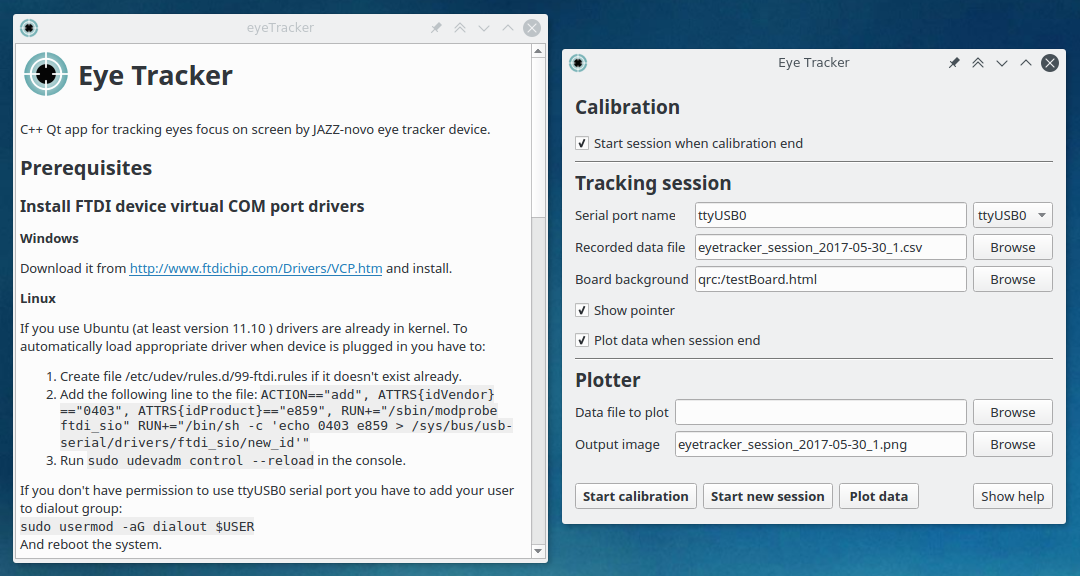
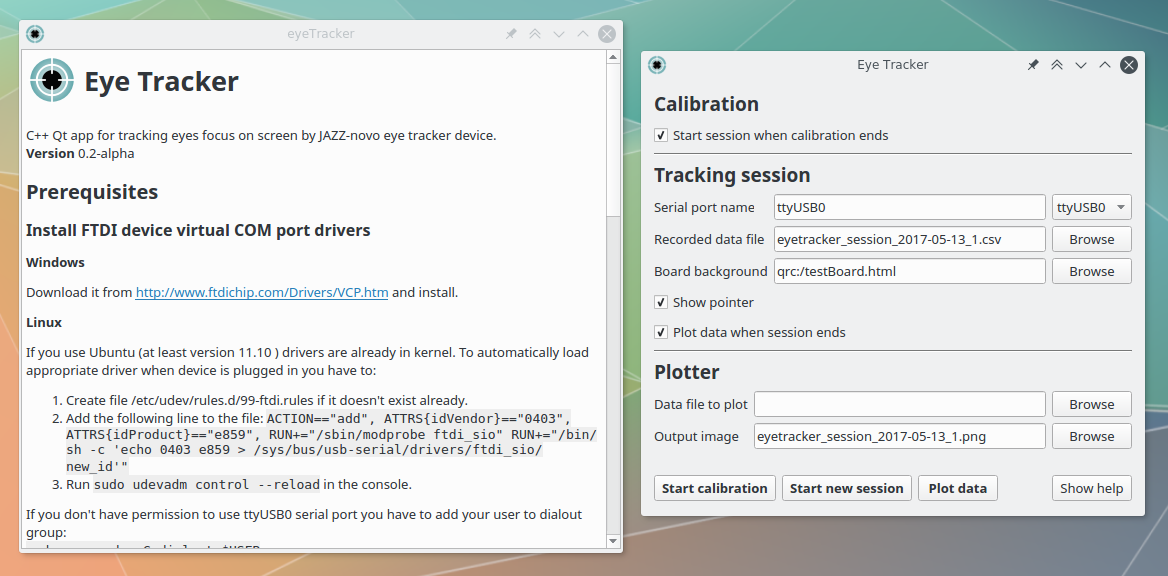
Update view

diff --git a/help.html b/help.html
@@ -3,6 +3,8 @@
 <td style="vertical-align:middle;padding-left:6px;"><h1>Eye Tracker</h1></td>
 <tr></tbody></table>
 C++ Qt app for tracking eyes focus on screen by JAZZ-novo eye tracker device.
+<br>
+<b>Version</b> 0.2-alpha
 
 <h2>Prerequisites</h2>
 
